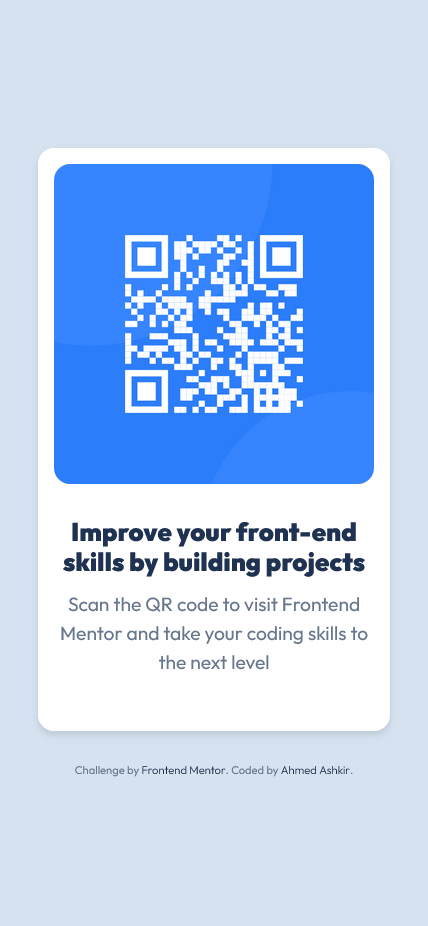
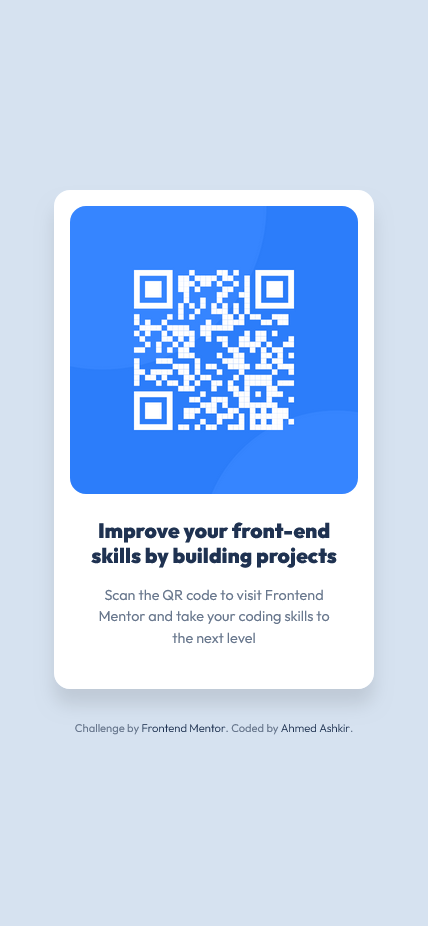
card size fixes

Changed region(s): [[0.0911, 0.1512, 0.9112, 0.8467]]

diff --git a/style.css b/style.css
@@ -19,17 +19,18 @@ body, main {
 }
 
 img {
-    max-width: 100%;
-    height: auto;
+    max-width: 18rem;
+    width: 100%;
+    margin: 0 auto;
     display: block;
     border-radius: 1em;
-    margin-block-end: 2em;
+    margin-block-end: .5em;
 }
 
 .card-body {
-    max-width: 100%;
-    margin: 0 auto;
-    padding: 0;
+    max-width: 17rem;
+    margin: 2rem auto;
+    padding: 0 .5rem;
     text-align: center;
     font-size: 1rem;
 }
@@ -42,19 +43,20 @@ h1, p, .attribution {
 
 
 h1 {
-    font-size: 1.5rem;
+    font-size: 1.4rem;
     color: hsl(218, 44%, 22%);
-    margin: .5em 0;
+    margin: 0 0;
     font-weight: 900;
     line-height: 1.2em;
 }
 
 p {
-    font-size: 1.1rem;
+    font-size: 1rem;
     color: hsl(216, 15%, 48%);
-    margin: 0 0 2em;
     line-height: 1.5em;
     font-weight: 400;
+    margin-block-start: 1rem;
+    margin-block-end: 1rem;
 }
 
 .attribution {
@@ -73,16 +75,19 @@ p {
 @media screen and (min-width: 376px) {
 
     .card-body {
+        max-width: 17rem;
         margin: 0 auto;
-        padding: 0;
+        padding: 1rem 0 .5rem;
     }
     
     h1 {
-        font-size: 1.6rem;
+        font-size: 1.3rem;
     }
     
     p {
-        font-size: 1.2rem;
+        font-size: .9rem;
+        margin-block-start: 1rem;
+        padding: 0 1rem;
     }
     
     .attribution {
